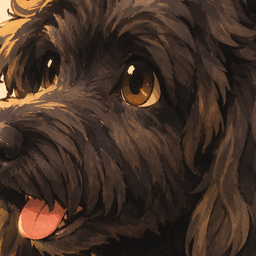
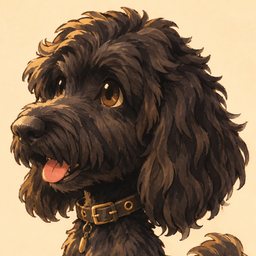
Nara smaller on the map, portrait shows whole head (nara2)
Claude-Session: https://claude.ai/code/session_01RXeukH5Da8WXssFsRDAfkt

diff --git a/engine/menu.js b/engine/menu.js
@@ -10,7 +10,7 @@ const MENU_TABS=[{id:'home',label:'Party'},{id:'items',label:'Items'},{id:'gear'
 const PER_CHAR_TABS=['status','gear','stamps'];
 // Character portraits (menu roster, dialogue box, battle panels, chapter select): head crops of each hero painting,
 // baked by tools/sprite-bake/bake_portraits.py (256 x 256). Boomie has no hero painting yet. Empty shows a placeholder.
-const PORTRAITS={tom:'portraits/tom.png?v=heroport2',ellie:'portraits/ellie.png?v=heroport2',amy:'portraits/amy.png?v=heroport2',justin:'portraits/justin.png?v=heroport2',olivia:'portraits/olivia.png?v=heroport2',grace:'portraits/grace.png?v=heroport2',deedee:'portraits/deedee.png?v=heroport2',boppy:'portraits/boppy.png?v=heroport2',nara:'portraits/nara.png?v=heroport2',boomie:'portraits/boomie.png?v=1',tnb:'portraits/tnb.png?v=heroport2',rose:'portraits/rose.png?v=heroport2'};
+const PORTRAITS={tom:'portraits/tom.png?v=heroport2',ellie:'portraits/ellie.png?v=heroport2',amy:'portraits/amy.png?v=heroport2',justin:'portraits/justin.png?v=heroport2',olivia:'portraits/olivia.png?v=heroport2',grace:'portraits/grace.png?v=heroport2',deedee:'portraits/deedee.png?v=heroport2',boppy:'portraits/boppy.png?v=heroport2',nara:'portraits/nara.png?v=nara2',boomie:'portraits/boomie.png?v=1',tnb:'portraits/tnb.png?v=heroport2',rose:'portraits/rose.png?v=heroport2'};
 // Speaking monsters: zoomed face crops from each enemy's painted stance frame (tools/sprite-bake/bake_foe_portraits.py). Keys are foe_<id>.
 for(const id of ["mudling", "skeeter", "grump", "bigone", "coyote", "smoglet", "tickets", "bigshake", "soggysock", "tangle", "snag", "irongill", "ironbelly", "wetblanket", "thedraft", "pickyeater", "boommoth", "clapper", "cuecrab", "directorscut", "chairman", "cheekstuffer", "peanutgallery", "twigspy", "dodgeball", "glitterglue", "tardybell", "redpen", "cliffhanger", "knowitall", "popup", "unread", "coathanger", "soreloser", "wallflower", "mirrorball", "longline", "unclaimed", "armresthog", "lastcall", "gridlockprime", "finalcall", "standbysprite", "hush9final", "drillworm", "censor", "leviathan", "brainfreeze", "slushslug", "gremlin", "conehead"]) PORTRAITS['foe_'+id]='portraits/foes/'+id+'.webp?v=foeport1';
 let playTime=0;

diff --git a/data/nara-hires-use.js b/data/nara-hires-use.js
@@ -2,6 +2,7 @@
 // data/nara-hires-use.js — The painted Nara (data/nara-hires.js, art/chars/nara-*.webp). Loaded right after data/nara.js, which builds her old pixel sprites;
 // this file swaps in the painted frames (overworld, battle, knocked out). Set NARA_HIRES_OFF=true (before this file) to fall back to the pixel Nara.
 // Her mouth point (HAND) is where she carries a ball, rope or jerky; both are set by hand in tools/sprite-bake/bake_nara.py (MARK).
+const NARA_OW_SIZE=0.9;   // Tom, 2026-11-06: Nara is too big in the overworld. Map size only (was NARA_SIZE 1.15).
 const NARA_SIZE=1.15;   // Tom, 2026-10-29: Nara 15 percent larger everywhere (battle, knocked out, overworld, splash). One number.
 (function() {
   if(typeof NARA_HIRES==='undefined'||(typeof NARA_HIRES_OFF!=='undefined'&&NARA_HIRES_OFF)) return;
@@ -13,7 +14,7 @@ const NARA_SIZE=1.15;   // Tom, 2026-10-29: Nara 15 percent larger everywhere (b
   const O=NARA_HIRES.ow,mk=(d,flip)=>['stand','step1','step2'].map(n=>{
     const rows=O[d+'_'+n]; return paintRows(flip?rows.map(r=>r.split('').reverse().join('')):rows.slice(),'naraOw',d+'_'+n,flip); });
   NARA_OW.hires=true; NARA_OW.pal=O.pal; NARA_OW.down=mk('down'); NARA_OW.up=mk('up'); NARA_OW.side=mk('left',true);
-  Object.assign(OW.nara,prepOW(NARA_OW,1)); OW.nara.k=NARA_SIZE;   // overworld: engine/town-render.js multiplies by set.k
+  Object.assign(OW.nara,prepOW(NARA_OW,1)); OW.nara.k=NARA_OW_SIZE;   // overworld: engine/town-render.js multiplies by set.k
   // Battle
   const sp=BATTLE_SPRITES.nara; if(!sp) return;
   const B=NARA_HIRES.bt,MK=NARA_HIRES.meta.bt.marks;

diff --git a/index.html b/index.html
@@ -1318,7 +1318,7 @@ document.addEventListener('click',function(e){var n=e.target.closest&&e.target.c
 <script src="data/maps-la.js?v=rmmask6"></script>
 <script src="data/maps-ch12.js"></script>
 <script src="engine/la.js"></script>
-<script src="engine/menu.js?v=foeport1"></script>
+<script src="engine/menu.js?v=nara2"></script>
 <script src="engine/followers.js?v=wind1"></script>
 <script src="engine/shop.js?v=justin2"></script>
 <script src="engine/audio.js?v=tab1"></script>
@@ -1590,7 +1590,7 @@ document.addEventListener('click',function(e){var n=e.target.closest&&e.target.c
 <script src="engine/local-clips.js?v=nobake1"></script>
 <script src="engine/dialog-auto.js"></script>
 <script src="engine/tapwalk.js?v=wind1"></script><!-- tap to walk -->
-<script src="engine/main.js?v=ride1"></script>
+<script src="engine/main.js?v=nara2"></script>
 <script src="engine/music.js"></script>
 <script src="data/songs.js"></script>
 <script src="engine/music-clips.js?v=music1"></script>

diff --git a/engine/main.js b/engine/main.js
@@ -83,7 +83,7 @@ startSplash();
 (function(){
   const sp=document.getElementById('splash'); if(!sp) return;
   const d=document.createElement('div');
-  d.textContent='build ride1';
+  d.textContent='build nara2';
   d.style.cssText='position:absolute;left:8px;bottom:4px;font:10px monospace;color:#fff;opacity:.45;pointer-events:none;z-index:50';
   sp.appendChild(d);
 })();

diff --git a/tools/sprite-bake/bake_portraits.py b/tools/sprite-bake/bake_portraits.py
@@ -32,7 +32,7 @@ FACE = {
     'olivia': (437, 542, 265, 385), 'deedee': (442, 557, 280, 410), 'boppy': (422, 572, 345, 515),
     'ellie': (452, 562, 263, 415),
 }
-NARA = (420, 410, 500)   # centre x, centre y, side
+NARA = (500, 440, 880)   # centre x, centre y, side (whole head with ears; 11-06 Tom: was cropped too close)
 
 
 def box(pid):

diff --git a/docs/CHANGES.md b/docs/CHANGES.md
@@ -1,3 +1,8 @@
+## 2026-11-06 (324): Nara smaller on the map, portrait shows her whole head (`nara2`)
+- Tom (01:51, 01:54): "Nara is too big in the overworld", "Nara's portrait is cropped too close". Fact: her map size shared one number with battle and splash (`NARA_SIZE` 1.15). Now the map has its own `NARA_OW_SIZE` 0.9 in `data/nara-hires-use.js`; battle, knocked out and splash stay 1.15.
+- Portrait: `NARA` square in `tools/sprite-bake/bake_portraits.py` widened from 500 to 880 source pixels, so the whole head with ears fits; `portraits/nara.png` rebaked.
+- Tags: `nara2` (portrait, build stamp).
+
 ## 2026-11-06 (323): Deedee's 14 painted effect sheets replace her drawn effects and objects (`dfx1`)
 
 Tom approved Deedee's abilities and objects. Fact: all 14 fx sheets (`art/raw/characters/deedee-fx-<move>-v1.png`) are cut into painted props in `art/props/deedee/` by the new `tools/sprite-bake/bake_deedee_fx.py` (80 props), and every Deedee move now draws them through the new `engine/deedee-fx.js` (`DFX`): Dish-Towel Flick, MOON & BACK, Registered Nut, Corner-Piece, Wet Floor, Wine, Oven Mitt Ultimatum, Brisk Means Brisk, Garden Shower, Rise and Shine, Beanie Master, Grandma Squeeze, Sunday Roast Spread, To the Moon and Back. Drawn shapes stay only as the load-time fallback inside each move. Every move ran in `kit_test` with no errors.
